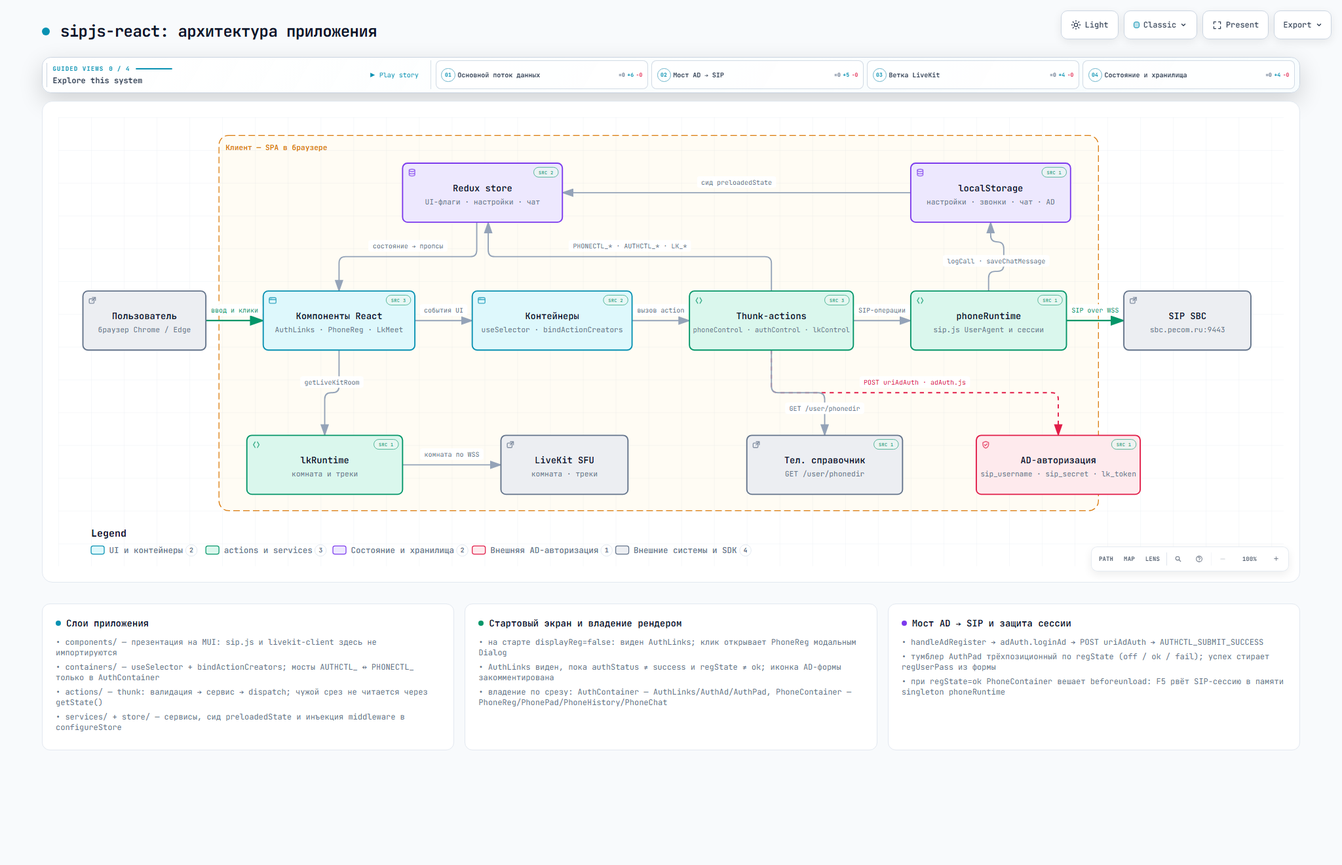
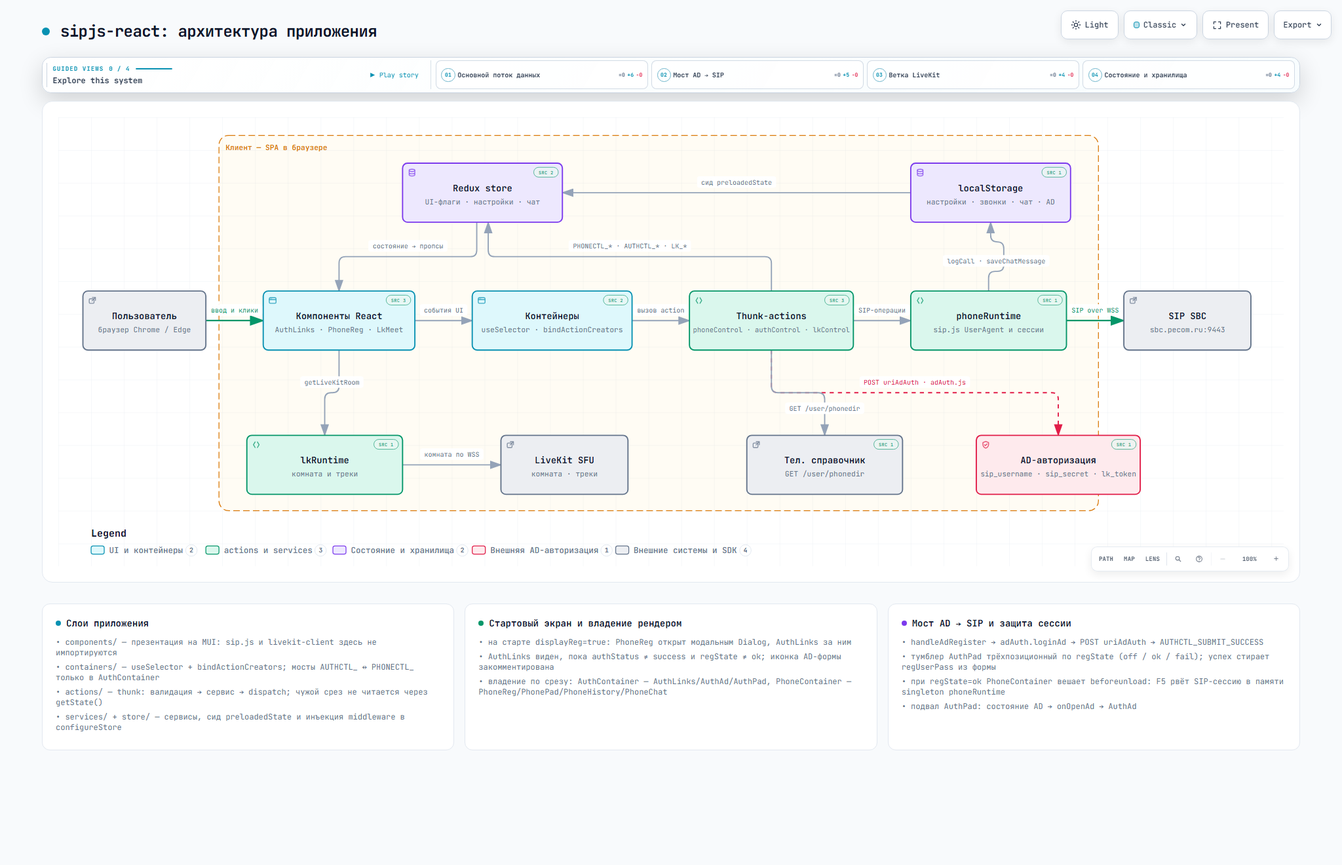
доки.

Changed region(s): [[0.3438, 0.7144, 0.625, 0.8386], [0.7812, 0.8076, 0.8125, 0.8386], [0.6875, 0.8076, 0.7188, 0.8386]]

diff --git a/docs/archify/sipjs-react-architecture.html b/docs/archify/sipjs-react-architecture.html
@@ -4840,8 +4840,8 @@
       </div>
     </div>
 
-    <script id="archify-guided-views-data" type="application/json">[{"id":"main-flow","label":"Основной поток данных","focus":["users","ui","containers","actions","runtime","sbc"],"note":"События UI проходят контейнеры и thunk-и, SIP-операции уходят в phoneRuntime и на SIP SBC по WSS."},{"id":"ad-bridge","label":"Мост AD → SIP","focus":["ad","actions","containers","store","ui"],"note":"AuthLinks открывает SIP-форму (displayReg); AD-форма живёт в AuthContainer — мост AUTHCTL_ ↔ PHONECTL_, тумблер AuthPad по regState."},{"id":"livekit-path","label":"Ветка LiveKit","focus":["actions","ui","lkRuntime","livekit"],"note":"handleLkTokenSubmit берёт lk_token, LkMeet через lkRuntime подключается к комнате LiveKit."},{"id":"state-and-storage","label":"Состояние и хранилища","focus":["store","storage","actions","runtime"],"note":"Слой store собирает сид из сервисов, Redux хранит UI-состояние, звонки и чат персистятся в localStorage."}]</script>
-    <script id="archify-source-evidence-data" type="application/json">{"schemaVersion":1,"verified":true,"repository":{"url":"https://github.com/ars-anosov/sipjs-react","revision":"9bebf74019c6374eb574e450f23298f3e978bed4","shortRevision":"9bebf74"},"referenceCount":15,"nodes":{"ui":[{"path":"src/components/AuthLinks.jsx","line":17,"label":"стартовый экран","href":"https://github.com/ars-anosov/sipjs-react/blob/9bebf74019c6374eb574e450f23298f3e978bed4/src/components/AuthLinks.jsx#L17"},{"path":"src/components/PhonePad.jsx","line":52,"label":"телефон","href":"https://github.com/ars-anosov/sipjs-react/blob/9bebf74019c6374eb574e450f23298f3e978bed4/src/components/PhonePad.jsx#L52"},{"path":"src/components/LkMeet.jsx","line":228,"label":"встреча","href":"https://github.com/ars-anosov/sipjs-react/blob/9bebf74019c6374eb574e450f23298f3e978bed4/src/components/LkMeet.jsx#L228"}],"containers":[{"path":"src/containers/AuthContainer.jsx","line":70,"label":"мост AUTHCTL_ ↔ PHONECTL_","href":"https://github.com/ars-anosov/sipjs-react/blob/9bebf74019c6374eb574e450f23298f3e978bed4/src/containers/AuthContainer.jsx#L70"},{"path":"src/containers/PhoneContainer.jsx","line":16,"label":"домен phoneControlRdcr","href":"https://github.com/ars-anosov/sipjs-react/blob/9bebf74019c6374eb574e450f23298f3e978bed4/src/containers/PhoneContainer.jsx#L16"}],"actions":[{"path":"src/actions/authControlActions.js","line":15,"label":"handleAdRegister","href":"https://github.com/ars-anosov/sipjs-react/blob/9bebf74019c6374eb574e450f23298f3e978bed4/src/actions/authControlActions.js#L15"},{"path":"src/actions/phoneControlActions.js","line":99,"label":"handleClkRegister","href":"https://github.com/ars-anosov/sipjs-react/blob/9bebf74019c6374eb574e450f23298f3e978bed4/src/actions/phoneControlActions.js#L99"},{"path":"src/actions/phoneControlActions.js","line":434,"label":"SIP MESSAGE","href":"https://github.com/ars-anosov/sipjs-react/blob/9bebf74019c6374eb574e450f23298f3e978bed4/src/actions/phoneControlActions.js#L434"}],"runtime":[{"path":"src/services/phoneRuntime.js","line":336,"label":"registerSipUserAgent","href":"https://github.com/ars-anosov/sipjs-react/blob/9bebf74019c6374eb574e450f23298f3e978bed4/src/services/phoneRuntime.js#L336"}],"store":[{"path":"src/store/preloadedState.js","line":14,"label":"сид из сервисов","href":"https://github.com/ars-anosov/sipjs-react/blob/9bebf74019c6374eb574e450f23298f3e978bed4/src/store/preloadedState.js#L14"},{"path":"src/store/configureStore.js","line":21,"label":"thunk + logger","href":"https://github.com/ars-anosov/sipjs-react/blob/9bebf74019c6374eb574e450f23298f3e978bed4/src/store/configureStore.js#L21"}],"storage":[{"path":"src/services/phoneStorage.js","line":15,"label":"настройки телефона","href":"https://github.com/ars-anosov/sipjs-react/blob/9bebf74019c6374eb574e450f23298f3e978bed4/src/services/phoneStorage.js#L15"}],"ad":[{"path":"src/services/adAuth.js","line":41,"label":"loginAd → POST uriAdAuth","href":"https://github.com/ars-anosov/sipjs-react/blob/9bebf74019c6374eb574e450f23298f3e978bed4/src/services/adAuth.js#L41"}],"dir":[{"path":"src/services/phoneDirectory.js","line":11,"label":"fetchPhoneDir","href":"https://github.com/ars-anosov/sipjs-react/blob/9bebf74019c6374eb574e450f23298f3e978bed4/src/services/phoneDirectory.js#L11"}],"lkRuntime":[{"path":"src/services/lkRuntime.js","line":5,"label":"getLiveKitRoom","href":"https://github.com/ars-anosov/sipjs-react/blob/9bebf74019c6374eb574e450f23298f3e978bed4/src/services/lkRuntime.js#L5"}]}}</script>
+    <script id="archify-guided-views-data" type="application/json">[{"id":"main-flow","label":"Основной поток данных","focus":["users","ui","containers","actions","runtime","sbc"],"note":"События UI проходят контейнеры и thunk-и, SIP-операции уходят в phoneRuntime и на SIP SBC по WSS."},{"id":"ad-bridge","label":"Мост AD → SIP","focus":["ad","actions","containers","store","ui"],"note":"AuthLinks открывает SIP-форму (displayReg); AD-форма в AuthContainer, тумблер AuthPad по regState, подвал AuthPad открывает AuthAd."},{"id":"livekit-path","label":"Ветка LiveKit","focus":["actions","ui","lkRuntime","livekit"],"note":"handleLkTokenSubmit берёт lk_token, LkMeet через lkRuntime подключается к комнате LiveKit."},{"id":"state-and-storage","label":"Состояние и хранилища","focus":["store","storage","actions","runtime"],"note":"Слой store собирает сид из сервисов, Redux хранит UI-состояние, звонки и чат персистятся в localStorage."}]</script>
+    <script id="archify-source-evidence-data" type="application/json">{"schemaVersion":1,"verified":true,"repository":{"url":"https://github.com/ars-anosov/sipjs-react","revision":"2ca17e1d9b1481d853e36d615ad4432e30e7c63a","shortRevision":"2ca17e1"},"referenceCount":15,"nodes":{"ui":[{"path":"src/components/AuthLinks.jsx","line":17,"label":"стартовый экран","href":"https://github.com/ars-anosov/sipjs-react/blob/2ca17e1d9b1481d853e36d615ad4432e30e7c63a/src/components/AuthLinks.jsx#L17"},{"path":"src/components/PhonePad.jsx","line":53,"label":"телефон","href":"https://github.com/ars-anosov/sipjs-react/blob/2ca17e1d9b1481d853e36d615ad4432e30e7c63a/src/components/PhonePad.jsx#L53"},{"path":"src/components/LkMeet.jsx","line":310,"label":"встреча","href":"https://github.com/ars-anosov/sipjs-react/blob/2ca17e1d9b1481d853e36d615ad4432e30e7c63a/src/components/LkMeet.jsx#L310"}],"containers":[{"path":"src/containers/AuthContainer.jsx","line":59,"label":"мост AUTHCTL_ ↔ PHONECTL_","href":"https://github.com/ars-anosov/sipjs-react/blob/2ca17e1d9b1481d853e36d615ad4432e30e7c63a/src/containers/AuthContainer.jsx#L59"},{"path":"src/containers/PhoneContainer.jsx","line":21,"label":"домен phoneControlRdcr","href":"https://github.com/ars-anosov/sipjs-react/blob/2ca17e1d9b1481d853e36d615ad4432e30e7c63a/src/containers/PhoneContainer.jsx#L21"}],"actions":[{"path":"src/actions/authControlActions.js","line":15,"label":"handleAdRegister","href":"https://github.com/ars-anosov/sipjs-react/blob/2ca17e1d9b1481d853e36d615ad4432e30e7c63a/src/actions/authControlActions.js#L15"},{"path":"src/actions/phoneControlActions.js","line":121,"label":"handleClkRegister","href":"https://github.com/ars-anosov/sipjs-react/blob/2ca17e1d9b1481d853e36d615ad4432e30e7c63a/src/actions/phoneControlActions.js#L121"},{"path":"src/actions/phoneControlActions.js","line":456,"label":"SIP MESSAGE","href":"https://github.com/ars-anosov/sipjs-react/blob/2ca17e1d9b1481d853e36d615ad4432e30e7c63a/src/actions/phoneControlActions.js#L456"}],"runtime":[{"path":"src/services/phoneRuntime.js","line":336,"label":"registerSipUserAgent","href":"https://github.com/ars-anosov/sipjs-react/blob/2ca17e1d9b1481d853e36d615ad4432e30e7c63a/src/services/phoneRuntime.js#L336"}],"store":[{"path":"src/store/preloadedState.js","line":14,"label":"сид из сервисов","href":"https://github.com/ars-anosov/sipjs-react/blob/2ca17e1d9b1481d853e36d615ad4432e30e7c63a/src/store/preloadedState.js#L14"},{"path":"src/store/configureStore.js","line":21,"label":"thunk + logger","href":"https://github.com/ars-anosov/sipjs-react/blob/2ca17e1d9b1481d853e36d615ad4432e30e7c63a/src/store/configureStore.js#L21"}],"storage":[{"path":"src/services/phoneStorage.js","line":15,"label":"настройки телефона","href":"https://github.com/ars-anosov/sipjs-react/blob/2ca17e1d9b1481d853e36d615ad4432e30e7c63a/src/services/phoneStorage.js#L15"}],"ad":[{"path":"src/services/adAuth.js","line":41,"label":"loginAd → POST uriAdAuth","href":"https://github.com/ars-anosov/sipjs-react/blob/2ca17e1d9b1481d853e36d615ad4432e30e7c63a/src/services/adAuth.js#L41"}],"dir":[{"path":"src/services/phoneDirectory.js","line":11,"label":"fetchPhoneDir","href":"https://github.com/ars-anosov/sipjs-react/blob/2ca17e1d9b1481d853e36d615ad4432e30e7c63a/src/services/phoneDirectory.js#L11"}],"lkRuntime":[{"path":"src/services/lkRuntime.js","line":21,"label":"getLiveKitRoom","href":"https://github.com/ars-anosov/sipjs-react/blob/2ca17e1d9b1481d853e36d615ad4432e30e7c63a/src/services/lkRuntime.js#L21"}]}}</script>
     <div class="guided-views no-print" id="guided-views" hidden aria-label="Guided diagram views">
       <button id="guided-view-prev" type="button" aria-label="Previous guided view" title="Previous guided view ([)">&#8592;</button>
       <div class="guided-view-copy">
@@ -5364,7 +5364,7 @@
           <h3>Стартовый экран и владение рендером</h3>
         </div>
         <ul>
-          <li>&bull; на старте displayReg=false: виден AuthLinks; клик открывает PhoneReg модальным Dialog</li>
+          <li>&bull; на старте displayReg=true: PhoneReg открыт модальным Dialog, AuthLinks за ним</li>
           <li>&bull; AuthLinks виден, пока authStatus ≠ success и regState ≠ ok; иконка AD-формы закомментирована</li>
           <li>&bull; владение по срезу: AuthContainer — AuthLinks/AuthAd/AuthPad, PhoneContainer — PhoneReg/PhonePad/PhoneHistory/PhoneChat</li>
         </ul>
@@ -5379,6 +5379,7 @@
           <li>&bull; handleAdRegister → adAuth.loginAd → POST uriAdAuth → AUTHCTL_SUBMIT_SUCCESS</li>
           <li>&bull; тумблер AuthPad трёхпозиционный по regState (off / ok / fail); успех стирает regUserPass из формы</li>
           <li>&bull; при regState=ok PhoneContainer вешает beforeunload: F5 рвёт SIP-сессию в памяти singleton phoneRuntime</li>
+          <li>&bull; подвал AuthPad: состояние AD → onOpenAd → AuthAd</li>
         </ul>
       </div>
     </div>

diff --git a/docs/archify/sipjs-react-sip-registration.html b/docs/archify/sipjs-react-sip-registration.html
@@ -4840,7 +4840,7 @@
       </div>
     </div>
 
-    <script id="archify-guided-views-data" type="application/json">[{"id":"start-registration","label":"Регистрация из off","focus":["user","authpad","authcont","actions","runtime"],"note":"displayReg стартует false: сначала виден AuthLinks, форму PhoneReg открывает клик; из off тумблер AuthPad зовёт handleClkRegister."},{"id":"reject-and-red","label":"Отказ → красный","focus":["registerer","runtime","actions","rdcr","authcont","authpad"],"note":"Отказ даёт regState=fail; PhoneReg не форсируется, показывается AuthPad."},{"id":"unregister","label":"Разрегистрация из ok","focus":["user","authpad","authcont","actions","rdcr"],"note":"Клик по зелёному тумблеру разрегистрирует сессию и возвращает regState в off."}]</script>
+    <script id="archify-guided-views-data" type="application/json">[{"id":"start-registration","label":"Регистрация из off","focus":["user","authpad","authcont","actions","runtime"],"note":"displayReg стартует true: сначала виден AuthLinks, поверх него PhoneReg; из off тумблер AuthPad зовёт handleClkRegister."},{"id":"reject-and-red","label":"Отказ → красный","focus":["registerer","runtime","actions","rdcr","authcont","authpad"],"note":"Отказ даёт regState=fail; PhoneReg не форсируется, показывается AuthPad."},{"id":"unregister","label":"Разрегистрация из ok","focus":["user","authpad","authcont","actions","rdcr"],"note":"Клик по зелёному тумблеру разрегистрирует сессию и возвращает regState в off."}]</script>
 
     <div class="guided-views no-print" id="guided-views" hidden aria-label="Guided diagram views">
       <button id="guided-view-prev" type="button" aria-label="Previous guided view" title="Previous guided view ([)">&#8592;</button>
@@ -5467,7 +5467,7 @@
           <h3>Старт и защита сессии</h3>
         </div>
         <ul>
-          <li>&bull; старт: AuthLinks, PhoneReg открывается модальным Dialog</li>
+          <li>&bull; старт: displayReg=true — PhoneReg в модальном Dialog</li>
           <li>&bull; submit PhoneReg и тумблер AuthPad — тот же thunk</li>
           <li>&bull; при regState=ok PhoneContainer вешает beforeunload (F5 рвёт сессию)</li>
         </ul>

diff --git a/AGENTS.md b/AGENTS.md
@@ -70,9 +70,9 @@ LICENSE           # MIT
 - Со стором сервисы сводит только слой стора: `store/preloadedState.js` собирает геттерами сервисов сид (`uriAdAuth`, `uriLk`/`uriLkToken`, `lkInvites`, `uriWebRtc`, `callerUserNum`, `useIce`) и отдаёт срезы `initialState` в `configureStore`, который передаёт их в `createStore` как `preloadedState` и инжектит зависимости `authTimeoutMiddleware` (срок AD-сессии, проверка раз в 10 с). `initialState` редьюсеров остаётся чистым. Reducers и middleware сервисов не импортируют.
 - Компоненты не импортируют `sip.js`/`livekit-client` и не работают с runtime напрямую — только пропсы + `*Actions` и узкий доменный API сервиса. Исключения: `PhoneIco` → `phoneNotifications`, `LkMeet` → `lkRuntime` и `@livekit/components-react`, `AuthAd` → `adAuth`.
 - Redux: только UI-флаги, заголовки, списки и счётчики; sip.js-объекты/сессии/медиа не хранятся. Actions — thunks (валидация → сервис/HTTP → dispatch), reducers чистые. Thunk работает только со своим срезом: чужой срез не читает через `getState()`, а получает значения аргументом.
-- Namespace-инвариант: thunks `AUTHCTL_` не диспатчат `PHONECTL_` (и наоборот), `LK_` — тоже не диспатчат `PHONECTL_`. Мосты между срезами — только в контейнерах: `AuthContainer` (`AUTHCTL_` ↔ `PHONECTL_` и URL → `LK_`), `PhoneContainer` (URL → `PHONECTL_`), `LkContainer` (`LK_` → `PHONECTL_`: приглашение в комнату пишется в чат через `handleSendInviteMessage`); остальные контейнеры раздают срезы пропсами (`LkContainer` → `phoneControlRdcr` для формы `LkToken`). Владение рендером — по срезу: `AuthContainer` (домен `authControlRdcr`, там же мост и стартовые ссылки `AuthLinks` на обе формы) рендерит `AuthLinks`, `AuthAd` и `AuthPad`, `PhoneContainer` (домен `phoneControlRdcr`) — `PhoneReg`, `PhonePad`, `PhoneHistory`, `PhoneChat`; чужой срез читает только `AuthContainer` — как мост. Стартовый экран: пока ни AD-сессия, ни SIP-регистрация не активны, видны только ссылки `AuthLinks` — кроме гостя по ссылке-приглашению (`lk_token` в query): ему `AuthLinks` не показывают, `LkMeet` открывается сразу (мост URL → LK в `AuthContainer`), а форма `PhoneReg` не открывается сама (мост URL → PHONECTL в `PhoneContainer`), хотя из меню остаётся доступной; успех AD → `AuthPad`, успешная SIP-регистрация → `PhonePad` (заголовок `App` — flex-колонка на высоту экрана).
+- Namespace-инвариант: thunks `AUTHCTL_` не диспатчат `PHONECTL_` (и наоборот), `LK_` — тоже не диспатчат `PHONECTL_`. Мосты между срезами — только в контейнерах: `AuthContainer` (`AUTHCTL_` ↔ `PHONECTL_` и URL → `LK_`), `PhoneContainer` (URL → `PHONECTL_`), `LkContainer` (`LK_` → `PHONECTL_`: приглашение в комнату пишется в чат через `handleSendInviteMessage`); остальные контейнеры раздают срезы пропсами (`LkContainer` → `phoneControlRdcr` для формы `LkToken`). Владение рендером — по срезу: `AuthContainer` (домен `authControlRdcr`, там же мост и стартовые ссылки `AuthLinks` на обе формы) рендерит `AuthLinks`, `AuthAd` и `AuthPad`, `PhoneContainer` (домен `phoneControlRdcr`) — `PhoneReg`, `PhonePad`, `PhoneHistory`, `PhoneChat`; чужой срез читает только `AuthContainer` — как мост. Стартовый экран: пока ни AD-сессия, ни SIP-регистрация не активны, показан стартовый блок `AuthLinks`, а поверх него — модальный `PhoneReg` (`phoneControlRdcr.displayReg` стартует `true`, форма — портал вне потока документа) — кроме гостя по ссылке-приглашению (`lk_token` в query): ему `AuthLinks` не показывают, `LkMeet` открывается сразу (мост URL → LK в `AuthContainer`), а форма `PhoneReg` не открывается сама (мост URL → PHONECTL в `PhoneContainer`), хотя из меню остаётся доступной; успех AD → `AuthPad`, успешная SIP-регистрация → `PhonePad` (заголовок `App` — flex-колонка на высоту экрана).
 - `phoneControlRdcr.regState` (`off`/`ok`/`fail`) — единственный флаг SIP-регистрации; проверки «зарегистрирован» — `regState === "ok"`, отдельного булева флага нет. Тумблер `AuthPad` трёхпозиционный и отражает `regState`: `off` — регистрация (без пары `sip_username`/`sip_secret` заблокирован), `ok` — разрегистрация, `fail` — возврат в `off`; при потере регистрации (`registrationLost`) показывается AuthPad с красным тумблером, а не `PhoneReg`.
-- `lkControlRdcr.displayControl` — показ `LkMeet` (пункт меню «LiveKit Встреча»; панель `AuthPad` отвечает только за SIP-регистрацию); ключ `displayControl` есть и у «кругляшей» в `phoneControlRdcr`/`authControlRdcr`. `LkMeet` читает `lk_room`/`lk_token` из query, а по ссылке-приглашению панель открывается сама. Свою комнату (кнопка «Создать» → `handleLkRoomCreate`) и ссылку-приглашение выдаёт `POST /user/lk`, но доступны они только при **живой SIP-регистрации** (`phoneControlRdcr.regState === "ok"`, номер комнаты — `callerUserNum`): приглашение уходит SIP MESSAGE, поэтому AD для этого не нужен и не проверяется; без регистрации и без токена в query панель показывает информирующий текст про ссылку-приглашение. Приглашений может быть несколько: `handleLkTokenSubmit` кладёт каждое в список `lkControlRdcr.invites` (на номер — одно актуальное, повторное вытесняет прежнее), список пишет сервис `storeLkInvite` в localStorage под ключом `lkInvites` с лимитом `LK_MAX_INVITES`, а в срез он попадает сидом через `preloadedState.js`. `LkMeet` показывает весь список: та же ссылка, что и в чате (`MEETING_LINK_SX`), с подписью срока действия (`exp` из JWT — `getLkTokenExpiresAt`, формат `date-fns` `HH:mm` или `dd.MM HH:mm`) и крестиком `handleRemoveInvite` (`removeStoredLkInvite` + `LK_STORE_VALUE`).
+- `lkControlRdcr.displayControl` — показ `LkMeet` (пункт меню «LiveKit Встреча»; тело панели `AuthPad` отвечает только за SIP-регистрацию, а её подвал — кнопка состояния AD, открывающая форму `AuthAd`); ключ `displayControl` есть и у «кругляшей» в `phoneControlRdcr`/`authControlRdcr`. `LkMeet` читает `lk_room`/`lk_token` из query, а по ссылке-приглашению панель открывается сама. Свою комнату (кнопка «Создать» → `handleLkRoomCreate`) и ссылку-приглашение выдаёт `POST /user/lk`, но доступны они только при **живой SIP-регистрации** (`phoneControlRdcr.regState === "ok"`, номер комнаты — `callerUserNum`): приглашение уходит SIP MESSAGE, поэтому AD для этого не нужен и не проверяется; без регистрации и без токена в query панель показывает информирующий текст про ссылку-приглашение. Приглашений может быть несколько: `handleLkTokenSubmit` кладёт каждое в список `lkControlRdcr.invites` (на номер — одно актуальное, повторное вытесняет прежнее), список пишет сервис `storeLkInvite` в localStorage под ключом `lkInvites` с лимитом `LK_MAX_INVITES`, а в срез он попадает сидом через `preloadedState.js`. `LkMeet` показывает весь список: та же ссылка, что и в чате (`MEETING_LINK_SX`), с подписью срока действия (`exp` из JWT — `getLkTokenExpiresAt`, формат `date-fns` `HH:mm` или `dd.MM HH:mm`) и крестиком `handleRemoveInvite` (`removeStoredLkInvite` + `LK_STORE_VALUE`).
 - `AuthAd` ожидает JSON: `sip_username`, `sip_secret`, `ad_login`, `ad_cn`, `ad_title`, `ad_department`.
 
 Потоки (AD-вход, SIP-регистрация, звонки, чат) — в `docs/STATE.md`.

diff --git a/docs/STATE.md b/docs/STATE.md
@@ -95,11 +95,13 @@ flowchart TD
 
 ## Мост к сервисам (`AuthContainer`)
 
-Thunk-и namespace-чистые: `authControlActions` не диспатчит `PHONECTL_`, `phoneControlActions` — `AUTHCTL_`, `lkControlActions` — `PHONECTL_`. Мосты между срезами живут только в контейнерах: `AuthContainer` — `AUTHCTL_` ↔ `PHONECTL_` (AD-данные → `PhoneReg` и тумблер `AuthPad`) и URL → `LK_` (панель встречи гостю), `PhoneContainer` — URL → `PHONECTL_` (`PhoneReg` гостю), `LkContainer` — `LK_` → `PHONECTL_` (приглашение в комнату пишется в чат); чужой срез thunk-и не читают через `getState()`, а получают нужные значения аргументом (`uriWebRtc` в `handleLkTokenSubmit`, `rdcr` в `handleClkRegister`/`handleSendMessage`/`handleSendInviteMessage`). Остальные контейнеры только раздают срезы пропсами — `LkContainer` → `phoneControlRdcr` для формы приглашения `LkToken`. `AuthPad` рендерится по флагу `displayAuthPad` (строка меню; ✕ снимает флаг): `initialState` — `false`, `true` выставляется на `AUTHCTL_SUBMIT_SUCCESS`, сбрасывается на `AUTHCTL_CLEAR`. Поэтому на старте панели нет, а на экране — стартовый блок `AuthLinks` с иконкой-входом в SIP-форму (иконка AD-формы закомментирована, а сама `AuthAd` рендерится по `displayAd` или `errComponent === "AuthAd"`); после успеха AD панель появляется (при отсутствии AD-данных она информирует текстом). Её тумблер трёхпозиционный и отражает `phoneControlRdcr.regState` (`off` / `ok` — зелёный / `fail` — красный): выключенный тумблер заблокирован без пары `sip_username`/`sip_secret`, клик из `off` запускает регистрацию, из `ok` — разрегистрацию, из `fail` — возвращает в `off`. Потеря регистрации (`regState` → `fail`) дополнительно форсирует `displayAuthPad` — форма `PhoneReg` при этом не появляется, а красный тумблер AuthPad остаётся кликабельным (✕ панель всё равно закрывает: `displayAuthPad` намеренно не в зависимостях эффекта).
+Thunk-и namespace-чистые: `authControlActions` не диспатчит `PHONECTL_`, `phoneControlActions` — `AUTHCTL_`, `lkControlActions` — `PHONECTL_`. Мосты между срезами живут только в контейнерах: `AuthContainer` — `AUTHCTL_` ↔ `PHONECTL_` (AD-данные → `PhoneReg` и тумблер `AuthPad`) и URL → `LK_` (панель встречи гостю), `PhoneContainer` — URL → `PHONECTL_` (`PhoneReg` гостю), `LkContainer` — `LK_` → `PHONECTL_` (приглашение в комнату пишется в чат); чужой срез thunk-и не читают через `getState()`, а получают нужные значения аргументом (`uriWebRtc` в `handleLkTokenSubmit`, `rdcr` в `handleClkRegister`/`handleSendMessage`/`handleSendInviteMessage`). Остальные контейнеры только раздают срезы пропсами — `LkContainer` → `phoneControlRdcr` для формы приглашения `LkToken`. `AuthPad` рендерится по флагу `displayAuthPad` (строка меню; ✕ снимает флаг): `initialState` — `false`, `true` выставляется на `AUTHCTL_SUBMIT_SUCCESS`, сбрасывается на `AUTHCTL_CLEAR`. Поэтому на старте панели нет, а на экране — стартовый блок `AuthLinks` с иконкой-входом в SIP-форму (иконка AD-формы закомментирована, а сама `AuthAd` рендерится по `displayAd` или `errComponent === "AuthAd"`), поверх которого открыт модальный `PhoneReg` (`displayReg` стартует `true`); после успеха AD панель появляется (при отсутствии AD-данных она информирует текстом). Её тумблер трёхпозиционный и отражает `phoneControlRdcr.regState` (`off` / `ok` — зелёный / `fail` — красный): выключенный тумблер заблокирован без пары `sip_username`/`sip_secret`, клик из `off` запускает регистрацию, из `ok` — разрегистрацию, из `fail` — возвращает в `off`. Потеря регистрации (`regState` → `fail`) дополнительно форсирует `displayAuthPad` — форма `PhoneReg` при этом не появляется, а красный тумблер AuthPad остаётся кликабельным (✕ панель всё равно закрывает: `displayAuthPad` намеренно не в зависимостях эффекта).
+
+Подвал панели — кнопка состояния AD (`authControlRdcr.status` + `ad_login`, иконки `HowToReg`/`PersonOff`): клик открывает форму `AuthAd` колбэком `onOpenAd` (пишет `displayAd` в `authControlRdcr`).
 
 Владение рендером — по срезу: `AuthContainer` (домен `authControlRdcr`, плюс стартовый блок `AuthLinks` и мост) держит форму `AuthAd` (флаг `displayAd` или `errComponent === "AuthAd"`), `AuthPad` и `AuthLinks`; `PhoneContainer` (домен `phoneControlRdcr`) рендерит форму входа `PhoneReg` (флаг `displayReg` или `errComponent === "PhoneReg"`) и рабочие блоки `PhonePad` / `PhoneHistory` / `PhoneChat`, auth-срез не читает. Обе формы входа — модальный `Dialog` в портале, вне потока документа, поэтому их показ не раздвигает вёрстку; чужие срезы читает лишь `AuthContainer` — как мост.
 
-Стартовый экран: пока `authControlRdcr.status !== "success"` и `phoneControlRdcr.regState !== "ok"`, виден только блок `AuthLinks` (иконка-вход в SIP-форму; сам ничего не диспатчит — колбэк `AuthContainer` пишет в `phoneControlRdcr`). Исключение — гость по ссылке-приглашению (`lk_token` в query маршрута): ему `AuthLinks` не показывают, `LkMeet` открывается сразу (мост URL → LK в `AuthContainer`), а `PhoneReg` не открывается сама (мост URL → PHONECTL в `PhoneContainer`: `displayReg` снимается, но из меню форма по-прежнему доступна). Успех AD → `AuthPad`, успешная SIP-регистрация → телефон (`displayPad` на `PHONECTL_CONNECT_SUCCESS`); заголовок `App` — flex-колонка на высоту экрана, поэтому стартовый блок центрируется между AppBar и футером.
+Стартовый экран: пока `authControlRdcr.status !== "success"` и `phoneControlRdcr.regState !== "ok"`, показан блок `AuthLinks` (иконка-вход в SIP-форму; сам ничего не диспатчит — колбэк `AuthContainer` пишет в `phoneControlRdcr`), а поверх него — модальный `PhoneReg`: `initialState.displayReg = true`, поэтому форма открыта сама, а её закрытие оставляет `AuthLinks`. Исключение — гость по ссылке-приглашению (`lk_token` в query маршрута): ему `AuthLinks` не показывают, `LkMeet` открывается сразу (мост URL → LK в `AuthContainer`), а `PhoneReg` не открывается сама (мост URL → PHONECTL в `PhoneContainer`: `displayReg` снимается, но из меню форма по-прежнему доступна). Успех AD → `AuthPad`, успешная SIP-регистрация → телефон (`displayPad` на `PHONECTL_CONNECT_SUCCESS`); заголовок `App` — flex-колонка на высоту экрана, поэтому стартовый блок центрируется между AppBar и футером.
 
 ```mermaid
 sequenceDiagram
@@ -112,8 +114,8 @@ sequenceDiagram
   participant PhoneAct@{ "type" : "collections", "alias": "phoneControlActions.js" }
   participant Dispatch@{ "type" : "collections", "alias": "authControlRdcr / phoneControlRdcr" }
 
-  Note over User,Dispatch: Старт: displayAd=false, displayAuthPad=false, displayReg=false, regState=off
-  Note over User,Dispatch: на экране только AuthLinks — иконка-вход в SIP-форму
+  Note over User,Dispatch: Старт: displayAd=false, displayAuthPad=false, displayReg=true, regState=off
+  Note over User,Dispatch: на экране AuthLinks, поверх него — модальный PhoneReg
 
   User->>AuthAd: Ввод AD-логина и пароля
   AuthAd->>AuthAct: handleAdRegister(formData)
